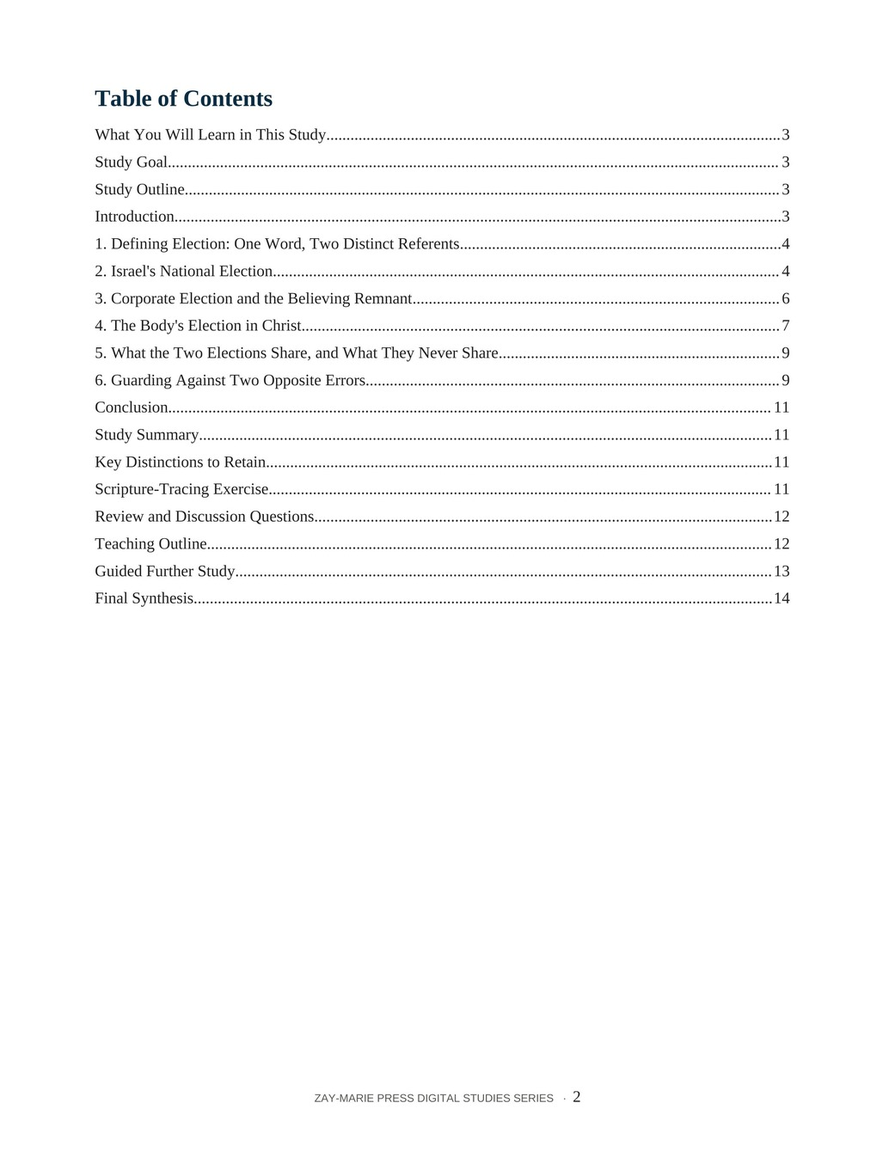
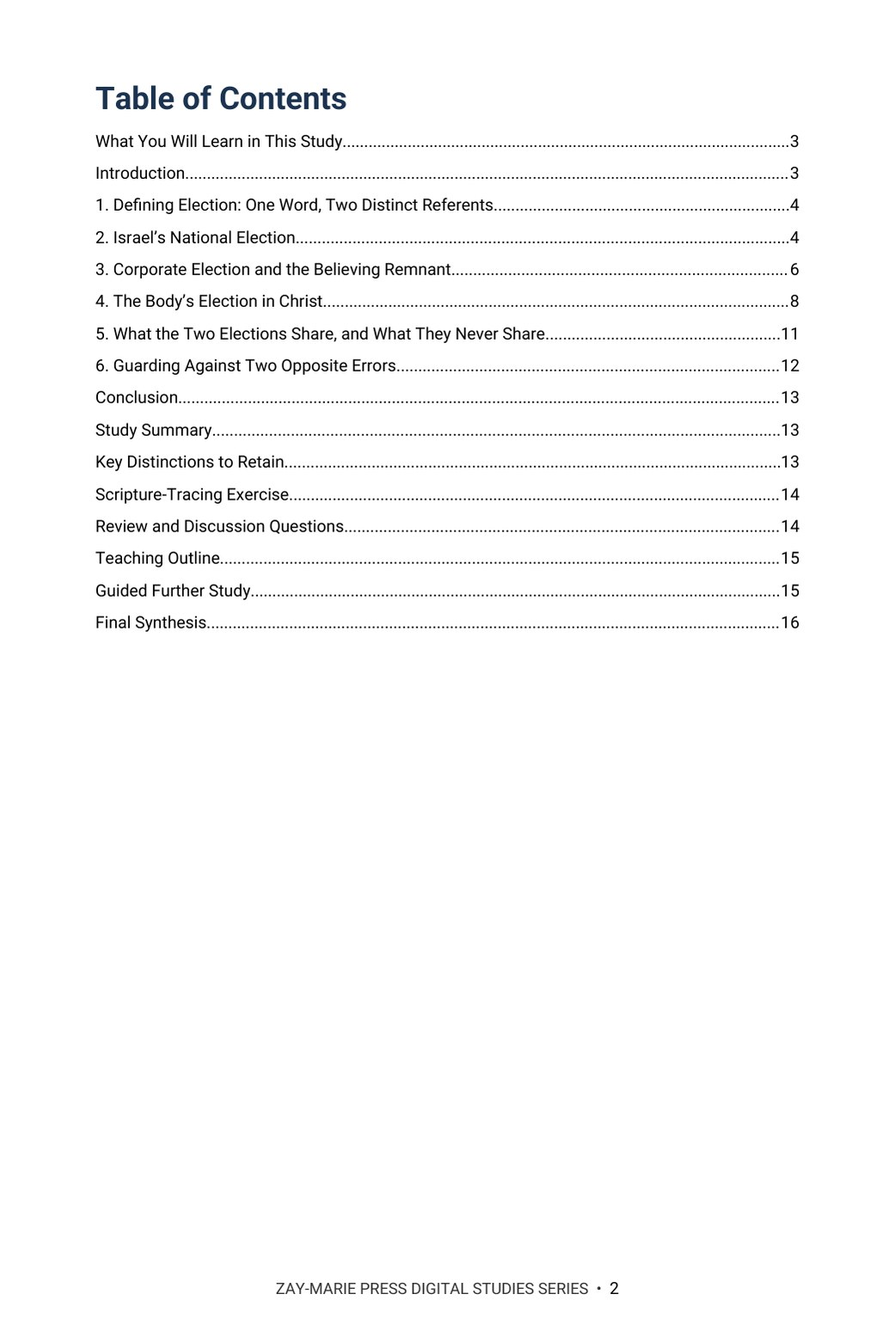
Study 50 (Election): PAM conformance, 16-page interior, section 17 previews, new preview pages; audit v1.81
Claude-Session: https://claude.ai/code/session_013kzJPyMkodVfrxEZGjk3me

Changed region(s): [[0.0922, 0.0624, 0.8915, 0.5301], [0.3074, 0.9354, 0.6455, 0.9666]]

diff --git a/study-50-election.html b/study-50-election.html
@@ -1,4 +1,4 @@
 <!doctype html>
 <html lang="en"><head><meta charset="utf-8"><meta name="viewport" content="width=device-width,initial-scale=1"><title>Election | Zay-Marie Press</title><meta name="description" content="Scripture calls Israel “chosen” and tells the Body of Christ it was “chosen . . . before the foundation of the world.” Distinguish Israel's national election from the Body's election in Christ, and avoid merging or over-extending either one. Preview Study 50 from Zay-Marie Press."><link rel="stylesheet" href="styles.css?v=20260921-4"><link rel="icon" type="image/png" href="assets/zay-marie-press-favicon.png"><style>
 .study-detail-page{background:#fff;color:#252525}.detail-hero{background:linear-gradient(135deg,#f8f5ec,#e3ece2);padding:58px 0}.detail-hero-grid{display:grid;grid-template-columns:minmax(250px,.72fr) minmax(0,1.28fr);gap:58px;align-items:center}.detail-cover{max-width:390px;margin:auto}.detail-cover img{display:block;width:100%;height:auto;box-shadow:0 14px 36px rgba(8,45,69,.18)}.detail-hero h1{font-size:clamp(2.7rem,5vw,4.7rem);line-height:1.02;margin:8px 0 10px;color:#143823}.detail-subtitle{font-family:Georgia,serif;font-size:1.35rem;font-weight:700;color:#082d45;margin:0 0 7px}.detail-kicker{font-family:Georgia,serif;font-style:italic;font-size:1.05rem;color:#4a4a44;margin:0 0 22px}.detail-copy{font-size:1.08rem;line-height:1.65;max-width:760px}.detail-buyline{display:flex;align-items:center;gap:18px;flex-wrap:wrap;margin-top:25px}.detail-price{font-family:Georgia,serif;font-size:2rem;font-weight:700;color:#143823}.detail-format,.preview-card .page-no{font-family:Arial,sans-serif;font-size:.76rem;font-weight:700;letter-spacing:.1em;text-transform:uppercase;color:#176b3a}.detail-button{display:inline-block;background:#176b3a;color:#fff;padding:13px 22px;font-family:Arial,sans-serif;font-size:.8rem;font-weight:700;letter-spacing:.07em;text-transform:uppercase}.detail-button.pending{opacity:.72;cursor:default}.detail-section{padding:66px 0}.detail-section.soft{background:#f6f7f2}.detail-section.cream{background:#faf8f2}.detail-section h2{color:#143823;margin:6px 0 18px;font-size:clamp(2rem,3.4vw,3rem)}.detail-section .lead{max-width:920px;font-size:1.1rem;line-height:1.62}.study-distinction{max-width:920px;margin-top:28px;margin-bottom:28px;padding:26px 28px;background:#fff;border:1px solid #d8d1bf;border-left:4px solid #b8871c}.study-distinction h3{margin:0 0 10px;color:#143823}.study-distinction p{margin:0 0 14px;line-height:1.62}.study-distinction a{font-family:Arial,sans-serif;font-weight:700;color:#176b3a;text-decoration:none}.study-points{display:grid;grid-template-columns:repeat(3,1fr);gap:18px;margin-top:28px;margin-bottom:28px}.study-point,.scripture-card,.preview-card,.include-item{background:#fff;border:1px solid var(--line);text-align:left}.study-point{border-top:3px solid #176b3a;padding:22px}.study-point h3{color:#143823;margin:0 0 8px;font-size:1.2rem}.study-point p,.scripture-card p,.preview-card p,.include-item p{margin:0;line-height:1.55}.scripture-grid{display:grid;grid-template-columns:repeat(4,1fr);gap:14px;margin-top:24px;margin-bottom:24px}.scripture-card{padding:22px 20px;color:#143823}.scripture-card h3{margin:0 0 9px;font-family:Georgia,serif;font-size:1rem;line-height:1.35}.scripture-card p{font-size:.94rem;color:#45453f}.excerpt{max-width:900px;margin:28px auto;border-left:4px solid #b8871c;padding:10px 0 10px 28px}.excerpt blockquote{font-family:Georgia,serif;font-size:clamp(1.45rem,2.5vw,2rem);line-height:1.45;color:#143823;margin:0 0 16px}.excerpt p{line-height:1.6;margin:0}.preview-grid{display:grid;grid-template-columns:repeat(3,1fr);gap:20px;margin-top:28px;margin-bottom:28px}.preview-card{padding:18px;min-height:210px;box-shadow:0 7px 20px rgba(20,40,25,.05)}.preview-image-link{display:block;margin:0 0 18px}.preview-image-link img{display:block;width:100%;height:auto;border:1px solid #d8d1bf;box-shadow:0 8px 22px rgba(20,40,25,.1);transition:transform .18s ease,box-shadow .18s ease}.preview-image-link:hover img{transform:translateY(-2px);box-shadow:0 11px 28px rgba(20,40,25,.16)}.preview-card h3{color:#143823;margin:8px 0 10px}.preview-instruction{margin:10px 0 0;font-family:Arial,sans-serif;font-size:.78rem;letter-spacing:.04em;color:#5b5b55}.includes-grid{display:grid;grid-template-columns:repeat(4,1fr);gap:14px;margin-top:26px}.include-item{padding:22px 20px;color:#143823}.include-item h3{margin:0 0 9px;font-family:Arial,sans-serif;font-size:.86rem;line-height:1.35;letter-spacing:.02em}.include-item p{font-size:.94rem;color:#45453f}.final-buy{background:#082d45;color:#fff;border-top:4px solid #b8871c;padding:42px 48px;display:grid;grid-template-columns:1fr auto;gap:36px;align-items:center}.final-buy .eyebrow,.final-buy h2,.final-buy .detail-price{color:#fff}.final-buy h2{margin:7px 0 6px}.final-buy p{margin:0}.final-offer{text-align:center}.back-link{display:inline-block;margin-top:18px;color:#143823;font-family:Arial,sans-serif;font-weight:700;text-decoration:none}.preview-lightbox{position:fixed;inset:0;z-index:10000;display:none;align-items:flex-start;justify-content:center;background:rgba(8,22,16,.88);padding:24px;overflow:auto}.preview-lightbox.open{display:flex}.preview-lightbox img{display:block;width:auto;height:auto;max-width:none;box-shadow:0 18px 55px rgba(0,0,0,.4);background:#fff}.preview-lightbox-close{position:fixed;top:18px;right:24px;z-index:10001;width:46px;height:46px;border:1px solid rgba(255,255,255,.65);border-radius:50%;background:rgba(0,0,0,.55);color:#fff;font:32px/1 Arial,sans-serif;cursor:pointer}@media(max-width:900px){.detail-hero-grid{grid-template-columns:1fr;gap:34px}.detail-cover{max-width:330px}.study-points{grid-template-columns:repeat(2,1fr)}.scripture-grid,.includes-grid{grid-template-columns:repeat(2,1fr)}.preview-grid,.final-buy{grid-template-columns:1fr}.final-offer{text-align:left}}@media(max-width:560px){.detail-hero{padding:42px 0}.detail-section{padding:50px 0}.study-points,.scripture-grid,.includes-grid{grid-template-columns:1fr}.final-buy{padding:32px 24px}.detail-buyline{align-items:flex-start;flex-direction:column;gap:8px}.preview-lightbox{padding:58px 10px 24px}.preview-lightbox img{width:100%;max-width:100%;height:auto}} .detail-hero h1{font-size:clamp(2.1rem,4.2vw,3.7rem);line-height:1.08}</style></head><body class="study-detail-page">
-<header class="site-header"><div class="wrap nav"><a class="logo" href="index.html" aria-label="Zay-Marie Press home"><img src="assets/zay-marie-press-logo-hq.png" alt="Zay-Marie Press" width="420" height="238"></a><button class="menu-toggle" type="button" aria-expanded="false" aria-controls="primary-nav">MENU</button><nav aria-label="Primary navigation" class="primary-nav" id="primary-nav"><a href="index.html">HOME</a><a href="books.html">BOOKS</a><a href="series.html">SERIES</a><a class="active" aria-current="page" href="digital-studies.html">DIGITAL STUDIES</a><a href="biblical-hermeneutics-course.html">COURSE</a><a href="about.html">ABOUT</a><a href="resources.html">RESOURCES</a><a href="contact.html">CONTACT</a></nav></div></header><main><section class="detail-hero"><div class="wrap detail-hero-grid"><div class="detail-cover"><picture><source srcset="assets/study-50-cover.webp" type="image/webp"><img src="assets/study-50-cover.jpg" alt="Election — Study 50 cover"></picture></div><div><div class="eyebrow">STUDY 50 · DIGITAL STUDY</div><h1>Election</h1><p class="detail-subtitle">Israel's National Election and the Body's Election in Christ</p><p class="detail-kicker">A Biblical Examination of Two Distinct Elections Under the Prophecy and Mystery Programs</p><p class="detail-copy">Scripture calls Israel "chosen" (Deuteronomy 7:6), and it tells the Body of Christ that God "hath chosen us in him before the foundation of the world" (Ephesians 1:4). The same English word — and largely the same underlying vocabulary of choosing — describes two different companies, in two different settings, on two different grounds, unto two different destinies. Left unexamined, that single shared word invites two opposite mistakes.</p><p class="detail-copy">This study traces Israel's national election from Deuteronomy 7 through Romans 9–11's corporate argument and Jeremiah 31's guarantee of the nation's future, and the Body's election in Christ from Ephesians 1's "before the foundation of the world" through Romans 8's unbroken chain of divine action. It tests the passage most likely to be misread alongside them — 1 Peter 1:1–2 — and names the two opposite errors a careful reader must avoid on either side.</p><div class="detail-buyline"><span class="detail-price">$5.99</span><span class="detail-format">Digital PDF · 14 Pages</span><span class="detail-button pending" aria-disabled="true">Checkout Coming Soon</span></div></div></div></section><section class="detail-section"><div class="wrap"><div class="eyebrow">ABOUT THIS STUDY</div><h2>Two Distinct Elections, Read on Their Own Terms</h2><p class="lead">Scripture applies its vocabulary of choosing to a nation (Deuteronomy 7:6–8), to a believing remnant within that nation (Romans 11:5), and to the Body of Christ (Ephesians 1:4). The word itself only ever tells the reader that a choice has been made — it does not say who was chosen, on what basis, at what point, or unto what destiny. Those four questions must be answered from each passage's own setting. Asked consistently, they keep Israel's national election and the Body's election in Christ distinct without denying that both are, in the fullest sense, God's own sovereign elections.</p><p class="lead">This is not a general study of Israel's remnant, which Study 9 traces in its own right, nor of the judicial suspension that presently governs Israel's corporate unbelief, which Study 21 examines fully, nor of the broad Israel–Body distinction itself, which Study 4 establishes across every point of contrast. Its task is narrower: to ask, of every election passage in view, who is the object of the choice, on what basis, at what point, and unto what end — and to test that method against the one passage most likely to blur the two elections together, 1 Peter 1:1–2.</p><div class="study-distinction"><h3>How These Studies Relate</h3><p>Study 50 traces the two elections Scripture names — Israel's national election and the Body's election in Christ — and the discipline that keeps a shared word from becoming a shared doctrine.</p><p><a href="study-09-the-remnant.html">Study 9 — The Remnant</a> Compare the corporate, national election traced here with the narrower "election of grace" this study locates within it — an individual outworking, not a separate election.</p><p><a href="study-21-israels-judicial-blinding.html">Study 21 — Israel's Judicial Blinding</a> See the national judicial suspension examined in full — the present, corporate condition this study calls on to show why Israel's unbelief never revokes her ongoing election.</p><p><a href="study-04-israel-and-the-body-of-christ.html">Study 4 — Israel and the Body of Christ</a> Read the broad Israel–Body distinction in origin, covenant, and destiny that this study's narrower question about election depends on throughout.</p><p class="connection-guide-link"><a href="study-connections.html#study-50">Explore the full connection guide for Study 50 →</a></p></div><div class="eyebrow">WHAT YOU'LL STUDY</div><h2>Trace the Object, the Basis, and the Destiny of Each Election</h2><div class="study-points"><div class="study-point"><h3>One Word, Two Referents</h3><p>See why "chosen" alone never settles who is in view — the object, basis, timing, and destiny must come from each passage's own setting.</p></div><div class="study-point"><h3>Israel's National Election</h3><p>Trace God's unconditional choice of Israel in Deuteronomy 7, Romans 9's Isaac/Jacob argument, and Romans 11:28–29's "beloved for the fathers' sakes."</p></div><div class="study-point"><h3>Corporate Election and the Believing Remnant</h3><p>See how a nation can be elected as a whole while Romans 11:5's individual "election of grace" still operates within it.</p></div><div class="study-point"><h3>The Body's Election in Christ</h3><p>Read Ephesians 1's "chosen . . . before the foundation of the world" and test its ground against Israel's own national election.</p></div><div class="study-point"><h3>What the Two Elections Never Share</h3><p>Compare object, basis, covenant status, and destiny side by side without collapsing one election into the other.</p></div><div class="study-point"><h3>Guarding Against Two Opposite Errors</h3><p>Avoid merging Israel and the Body into one election, and avoid stretching Israel's election to answer a question about individual salvation it was not given to answer.</p></div></div><div class="eyebrow">KEY SCRIPTURES</div><h2>Examine the Passages for Yourself</h2><div class="scripture-grid"><div class="scripture-card"><h3>Deuteronomy 7:6–8</h3><p>Israel chosen not for size or merit, but for God's own love and His oath to the fathers.</p></div><div class="scripture-card"><h3>Romans 9:6–13</h3><p>Isaac and Jacob chosen before either was born — a corporate, historical argument, not a proof text for individual salvation.</p></div><div class="scripture-card"><h3>Romans 11:28–29</h3><p>Beloved for the fathers' sakes — the gifts and calling of God are without repentance.</p></div><div class="scripture-card"><h3>Ephesians 1:3–6</h3><p>Chosen in Him before the foundation of the world — no genealogical or national referent at all.</p></div><div class="scripture-card"><h3>Ephesians 1:11–12</h3><p>Predestinated according to His purpose, obtained by those who first trusted in Christ.</p></div><div class="scripture-card"><h3>Romans 8:28–30</h3><p>The unbroken chain from foreknowledge to glory — every verb belongs to God.</p></div><div class="scripture-card"><h3>2 Thessalonians 2:13–14</h3><p>Chosen to salvation through belief of the truth, called by the gospel Paul preaches.</p></div><div class="scripture-card"><h3>1 Peter 1:1–2</h3><p>"Elect according to foreknowledge" — addressed to Israel's own dispersion, not a third statement of the Body's election.</p></div></div><div class="eyebrow">FROM THE STUDY</div><h2>The Word Is Not the Test</h2><div class="excerpt"><blockquote>"According as he hath chosen us in him before the foundation of the world, that we should be holy and without blame before him in love" (Ephesians 1:4).</blockquote><p>Paul locates this election "in him," before time began — not in a family, not in a nation, not in a covenant sworn within history. Israel's own election, sworn to Abraham's line, is no less real for being different; it is simply not this one. The single word "chosen" is not the test. Where, when, and unto what a choice was made — asked of each passage on its own terms — is.</p></div><div class="eyebrow">A LOOK INSIDE</div><h2>Preview the Study Before You Purchase</h2><p class="preview-instruction">Click any page to enlarge it for reading.</p><div class="preview-grid"><div class="preview-card"><a class="preview-image-link" data-preview-lightbox href="assets/study-50-page-2.jpg"><img src="assets/study-50-page-2.jpg" alt="Study 50 table of contents"></a><div class="page-no">Page 2</div><h3>Table of Contents</h3><p>See the study's full structure and scope at a glance.</p></div><div class="preview-card"><a class="preview-image-link" data-preview-lightbox href="assets/study-50-page-3.jpg"><img src="assets/study-50-page-3.jpg" alt="Study 50 page 3: what you will learn, study goal, and study outline"></a><div class="page-no">Page 3</div><h3>What You Will Learn</h3><p>See the study's goal, outline, and the question it sets out to answer.</p></div><div class="preview-card"><a class="preview-image-link" data-preview-lightbox href="assets/study-50-page-4.jpg"><img src="assets/study-50-page-4.jpg" alt="Study 50 page 4: defining election and Israel's national election"></a><div class="page-no">Page 4</div><h3>Defining Election</h3><p>See how the study opens its argument from the Hebrew and Greek vocabulary of choosing itself.</p></div></div><div class="eyebrow">WHAT'S INCLUDED</div><h2>A Focused Study Built for<br>Understanding and Teaching</h2><div class="includes-grid"><div class="include-item"><h3>14-Page In-Depth Biblical Study</h3><p>A careful study of Israel's national election and the Body's election in Christ, grounded in Deuteronomy, Romans, Ephesians, and 1 Peter.</p></div><div class="include-item"><h3>6 Core Teaching Sections</h3><p>Progress from the shared vocabulary of choosing through both elections to the two opposite errors a careful reader must avoid.</p></div><div class="include-item"><h3>Key Distinctions to Retain</h3><p>Keep the object, basis, covenant status, and destiny of each election clear.</p></div><div class="include-item"><h3>Review and Discussion Questions</h3><p>Test the study's distinctions concerning basis, timing, and destiny.</p></div><div class="include-item"><h3>Teaching Outline</h3><p>A structured framework for teaching both elections with precision.</p></div><div class="include-item"><h3>Guided Further Study</h3><p>Return to Israel's election, the Body's election, and the discipline of audience, each traced further with directed questions.</p></div><div class="include-item"><h3>Scripture-Tracing Exercise</h3><p>Trace the study's key passages across the Law, the Prophets, the Gospels, and Paul's letters in their own context.</p></div><div class="include-item"><h3>Final Synthesis Exercise</h3><p>Bring the evidence together in one coherent, Scripture-based explanation.</p></div></div><div class="final-buy"><div><div class="eyebrow">STUDY 50 · DIGITAL STUDY</div><h2>Election</h2><p>14-page digital PDF · For personal use</p></div><div class="final-offer"><div class="detail-price">$5.99</div><span class="detail-button pending" aria-disabled="true">Checkout Coming Soon</span></div></div><a class="back-link" href="digital-studies.html">← Back to All Digital Studies</a></div></section><section class="study-method-course-bridge"><div class="wrap"><div class="study-method-course-panel"><div><div class="eyebrow">BUILD THE INTERPRETIVE METHOD</div><h2>Want More Than a Focused Study?</h2><p>Digital Studies examine particular biblical subjects and difficult passages. The 40-lesson Biblical Hermeneutics course teaches a complete, repeatable method for establishing meaning in context, determining proper assignment, and making responsible application.</p></div><a class="btn btn-primary" href="biblical-hermeneutics-course.html">BIBLICAL HERMENEUTICS COURSE</a></div></div></section></main><div class="preview-lightbox" id="preview-lightbox" role="dialog" aria-modal="true" aria-label="Expanded study preview"><button class="preview-lightbox-close" type="button" aria-label="Close preview">×</button><img id="preview-lightbox-image" alt=""></div><footer class="site-footer"><div class="wrap footer-grid"><div class="footer-about"><h3>Zay-Marie Press</h3><p class="footer-tagline"><em>Where the Bible Means What It Says.</em></p><p>Zay-Marie Press is a Christian theological publisher dedicated to producing doctrinally precise, carefully structured biblical resources that equip pastors, teachers, and serious students with clarity, depth, and Scripture-anchored truth.</p><p><a href="https://zaymariepress.com">zaymariepress.com</a><br><a href="mailto:info@zaymariepress.com">info@zaymariepress.com</a></p></div><div class="footer-column"><h3>Explore</h3><div class="footer-links-stacked"><a href="books.html">Books</a><br><a href="series.html">Series</a><br><a href="biblical-hermeneutics-course.html">Course</a><br><a href="digital-studies.html">Digital Studies</a><br><a href="resources.html">Resources</a><br><a href="bible-book-summaries.html">Bible Book Summaries</a><br><a href="doctrinal-packets.html">Doctrinal Packets</a><br><a href="historical-drift.html">Historical Drift</a><br><a href="about.html">About</a><br><a href="contact.html">Contact</a></div></div><div class="footer-column"><h3>Reader Support</h3><div class="footer-links-stacked"><a href="reader-support.html#faq">FAQ</a><br><a href="reader-support.html#shipping-returns">Shipping &amp; Returns</a><br><a href="reader-support.html#digital-downloads">Digital Downloads</a><br><a href="reader-support.html#contact-support">Contact Support</a></div></div><div class="footer-column"><h3>Acts Overlap</h3><p><strong>Acts Overlap Theology Series</strong></p><p><em>Two Distinct Streams. One Overlap.</em></p><p><a href="series.html">Series Overview</a></p></div></div><div class="wrap footer-bottom">© 2026 Zay-Marie Press. All rights reserved.</div></footer><script src="site.js"></script><script>const lightbox=document.getElementById('preview-lightbox'),lightboxImage=document.getElementById('preview-lightbox-image'),closeLightbox=()=>{lightbox.classList.remove('open');lightboxImage.src='';};document.querySelectorAll('[data-preview-lightbox]').forEach(link=>link.addEventListener('click',event=>{event.preventDefault();lightboxImage.src=link.href;lightboxImage.alt=link.querySelector('img').alt;lightbox.classList.add('open');}));document.querySelector('.preview-lightbox-close').addEventListener('click',closeLightbox);lightbox.addEventListener('click',event=>{if(event.target===lightbox)closeLightbox();});document.addEventListener('keydown',event=>{if(event.key==='Escape')closeLightbox();});</script></body></html>
+<header class="site-header"><div class="wrap nav"><a class="logo" href="index.html" aria-label="Zay-Marie Press home"><img src="assets/zay-marie-press-logo-hq.png" alt="Zay-Marie Press" width="420" height="238"></a><button class="menu-toggle" type="button" aria-expanded="false" aria-controls="primary-nav">MENU</button><nav aria-label="Primary navigation" class="primary-nav" id="primary-nav"><a href="index.html">HOME</a><a href="books.html">BOOKS</a><a href="series.html">SERIES</a><a class="active" aria-current="page" href="digital-studies.html">DIGITAL STUDIES</a><a href="biblical-hermeneutics-course.html">COURSE</a><a href="about.html">ABOUT</a><a href="resources.html">RESOURCES</a><a href="contact.html">CONTACT</a></nav></div></header><main><section class="detail-hero"><div class="wrap detail-hero-grid"><div class="detail-cover"><picture><source srcset="assets/study-50-cover.webp" type="image/webp"><img src="assets/study-50-cover.jpg" alt="Election — Study 50 cover"></picture></div><div><div class="eyebrow">STUDY 50 · DIGITAL STUDY</div><h1>Election</h1><p class="detail-subtitle">Israel's National Election and the Body's Election in Christ</p><p class="detail-kicker">A Biblical Examination of Two Distinct Elections Under the Prophecy and Mystery Programs</p><p class="detail-copy">Scripture calls Israel "chosen" (Deuteronomy 7:6), and it tells the Body of Christ that God "hath chosen us in him before the foundation of the world" (Ephesians 1:4). The same English word — and largely the same underlying vocabulary of choosing — describes two different companies, in two different settings, on two different grounds, unto two different destinies. Left unexamined, that single shared word invites two opposite mistakes.</p><p class="detail-copy">This study traces Israel's national election from Deuteronomy 7 through Romans 9–11's corporate argument and Jeremiah 31's guarantee of the nation's future, and the Body's election in Christ from Ephesians 1's "before the foundation of the world" through Romans 8's unbroken chain of divine action. It tests the passage most likely to be misread alongside them — 1 Peter 1:1–2 — and names the two opposite errors a careful reader must avoid on either side.</p><div class="detail-buyline"><span class="detail-price">$5.99</span><span class="detail-format">Digital PDF · 16 Pages</span><span class="detail-button pending" aria-disabled="true">Checkout Coming Soon</span></div></div></div></section><section class="detail-section"><div class="wrap"><div class="eyebrow">ABOUT THIS STUDY</div><h2>Two Distinct Elections, Read on Their Own Terms</h2><p class="lead">Scripture applies its vocabulary of choosing to a nation (Deuteronomy 7:6–8), to a believing remnant within that nation (Romans 11:5), and to the Body of Christ (Ephesians 1:4). The word itself only ever tells the reader that a choice has been made — it does not say who was chosen, on what basis, at what point, or unto what destiny. Those four questions must be answered from each passage's own setting. Asked consistently, they keep Israel's national election and the Body's election in Christ distinct without denying that both are, in the fullest sense, God's own sovereign elections.</p><p class="lead">This is not a general study of Israel's remnant, which Study 9 traces in its own right, nor of the judicial suspension that presently governs Israel's corporate unbelief, which Study 21 examines fully, nor of the broad Israel–Body distinction itself, which Study 4 establishes across every point of contrast. Its task is narrower: to ask, of every election passage in view, who is the object of the choice, on what basis, at what point, and unto what end — and to test that method against the one passage most likely to blur the two elections together, 1 Peter 1:1–2.</p><div class="study-distinction"><h3>How These Studies Relate</h3><p>Study 50 traces the two elections Scripture names — Israel's national election and the Body's election in Christ — and the discipline that keeps a shared word from becoming a shared doctrine.</p><p><a href="study-09-the-remnant.html">Study 9 — The Remnant</a> Compare the corporate, national election traced here with the narrower "election of grace" this study locates within it — an individual outworking, not a separate election.</p><p><a href="study-21-israels-judicial-blinding.html">Study 21 — Israel's Judicial Blinding</a> See the national judicial suspension examined in full — the present, corporate condition this study calls on to show why Israel's unbelief never revokes her ongoing election.</p><p><a href="study-04-israel-and-the-body-of-christ.html">Study 4 — Israel and the Body of Christ</a> Read the broad Israel–Body distinction in origin, covenant, and destiny that this study's narrower question about election depends on throughout.</p><p class="connection-guide-link"><a href="study-connections.html#study-50">Explore the full connection guide for Study 50 →</a></p></div><div class="eyebrow">WHAT YOU'LL STUDY</div><h2>Trace the Object, the Basis, and the Destiny of Each Election</h2><div class="study-points"><div class="study-point"><h3>The Four Questions</h3><p>Learn the four questions — object, basis, point of choice and destiny — this study puts to every election passage, and test why a shared word does not by itself settle which choice a passage describes.</p></div><div class="study-point"><h3>Reading Deuteronomy 7 and Romans 9–11</h3><p>Trace the reason Deuteronomy 7:6–8 gives for Israel's choice, how Romans 9:6–13 uses Isaac and Jacob, and what Paul says about gifts and calling in Romans 11:28–29.</p></div><div class="study-point"><h3>The “Election of Grace”</h3><p>Follow the phrase in Romans 11:1–7, noting what verse 6 says about works and grace, and test how it relates to the passages on the nation.</p></div><div class="study-point"><h3>Ephesians 1 on Its Own Terms</h3><p>Read Ephesians 1:3–6 and 1:11–12 for where, when and in whom the choice is placed, and note which words the text uses of descent, covenant and inheritance.</p></div><div class="study-point"><h3>Comparing the Passages</h3><p>Set the passages side by side on object, basis, point of choice and destiny, marking where the text states the same ground (Deuteronomy 7:7; Ephesians 2:8–9) and where it does not.</p></div><div class="study-point"><h3>The Discipline of Audience</h3><p>Read 1 Peter 1:1–2 from its own address, and weigh what Romans 9–11 was written to answer before pressing it into a wider debate.</p></div></div><div class="eyebrow">KEY SCRIPTURES</div><h2>Examine the Passages for Yourself</h2><div class="scripture-grid"><div class="scripture-card"><h3>Deuteronomy 7:6–8</h3><p>Israel chosen not for size or merit, but for God's own love and His oath to the fathers.</p></div><div class="scripture-card"><h3>Romans 9:6–13</h3><p>Isaac and Jacob, and the question Paul is answering in the chapter's opening verses.</p></div><div class="scripture-card"><h3>Romans 11:28–29</h3><p>Beloved for the fathers' sakes — the gifts and calling of God are without repentance.</p></div><div class="scripture-card"><h3>Ephesians 1:3–6</h3><p>Chosen in Him before the foundation of the world — read who is “us,” and where and when the choice is placed.</p></div><div class="scripture-card"><h3>Ephesians 1:11–12</h3><p>Predestinated according to His purpose, obtained by those who first trusted in Christ.</p></div><div class="scripture-card"><h3>Romans 8:28–30</h3><p>The unbroken chain from foreknowledge to glory — every verb belongs to God.</p></div><div class="scripture-card"><h3>2 Thessalonians 2:13–14</h3><p>Chosen to salvation through belief of the truth, called by the gospel Paul preaches.</p></div><div class="scripture-card"><h3>1 Peter 1:1–2</h3><p>"Elect according to foreknowledge" — read the letter's own address, “strangers scattered,” before deciding what the word names.</p></div></div><div class="eyebrow">FROM THE STUDY</div><h2>The Word Is Not the Test</h2><div class="excerpt"><blockquote>"According as he hath chosen us in him before the foundation of the world, that we should be holy and without blame before him in love" (Ephesians 1:4).</blockquote><p>Paul locates this election "in him," before time began — not in a family, not in a nation, not in a covenant sworn within history. Israel's own election, sworn to Abraham's line, is no less real for being different; it is simply not this one. The single word "chosen" is not the test. Where, when, and unto what a choice was made — asked of each passage on its own terms — is.</p></div><div class="eyebrow">A LOOK INSIDE</div><h2>Preview the Study Before You Purchase</h2><p class="preview-instruction">Click any page to enlarge it for reading.</p><div class="preview-grid"><div class="preview-card"><a class="preview-image-link" data-preview-lightbox href="assets/study-50-page-2.jpg"><img src="assets/study-50-page-2.jpg" alt="Study 50 table of contents"></a><div class="page-no">Page 2</div><h3>Table of Contents</h3><p>See the study's full structure and scope at a glance.</p></div><div class="preview-card"><a class="preview-image-link" data-preview-lightbox href="assets/study-50-page-3.jpg"><img src="assets/study-50-page-3.jpg" alt="Study 50 page 3: what you will learn, study goal, and study outline"></a><div class="page-no">Page 3</div><h3>What You Will Learn</h3><p>See the study's goal, outline, and the question it sets out to answer.</p></div><div class="preview-card"><a class="preview-image-link" data-preview-lightbox href="assets/study-50-page-5.jpg"><img src="assets/study-50-page-5.jpg" alt="Study 50 page 5: Deuteronomy 7 and Romans 9 in KJV wording, with commentary"></a><div class="page-no">Page 5</div><h3>Deuteronomy 7 and Romans 9</h3><p>Read the KJV text of Deuteronomy 7:6–8 beside the study's commentary on Romans 9:6–13.</p></div></div><div class="eyebrow">WHAT'S INCLUDED</div><h2>A Focused Study Built for<br>Understanding and Teaching</h2><div class="includes-grid"><div class="include-item"><h3>16-Page In-Depth Biblical Study</h3><p>A careful study of Israel's national election and the Body's election in Christ, grounded in Deuteronomy, Romans, Ephesians, and 1 Peter.</p></div><div class="include-item"><h3>6 Core Teaching Sections</h3><p>Progress from the shared vocabulary of choosing through both elections to the two opposite errors a careful reader must avoid.</p></div><div class="include-item"><h3>Key Distinctions to Retain</h3><p>Keep the object, basis, covenant status, and destiny of each election clear.</p></div><div class="include-item"><h3>Review and Discussion Questions</h3><p>Test the study's distinctions concerning basis, timing, and destiny.</p></div><div class="include-item"><h3>Teaching Outline</h3><p>A structured framework for teaching both elections with precision.</p></div><div class="include-item"><h3>Guided Further Study</h3><p>Return to Israel's election, the Body's election, and the discipline of audience, each traced further with directed questions.</p></div><div class="include-item"><h3>Scripture-Tracing Exercise</h3><p>Trace the study's key passages across the Law, the Prophets, the Gospels, and Paul's letters in their own context.</p></div><div class="include-item"><h3>Final Synthesis Exercise</h3><p>Bring the evidence together in one coherent, Scripture-based explanation.</p></div></div><div class="final-buy"><div><div class="eyebrow">STUDY 50 · DIGITAL STUDY</div><h2>Election</h2><p>16-page digital PDF · For personal use</p></div><div class="final-offer"><div class="detail-price">$5.99</div><span class="detail-button pending" aria-disabled="true">Checkout Coming Soon</span></div></div><a class="back-link" href="digital-studies.html">← Back to All Digital Studies</a></div></section><section class="study-method-course-bridge"><div class="wrap"><div class="study-method-course-panel"><div><div class="eyebrow">BUILD THE INTERPRETIVE METHOD</div><h2>Want More Than a Focused Study?</h2><p>Digital Studies examine particular biblical subjects and difficult passages. The 40-lesson Biblical Hermeneutics course teaches a complete, repeatable method for establishing meaning in context, determining proper assignment, and making responsible application.</p></div><a class="btn btn-primary" href="biblical-hermeneutics-course.html">BIBLICAL HERMENEUTICS COURSE</a></div></div></section></main><div class="preview-lightbox" id="preview-lightbox" role="dialog" aria-modal="true" aria-label="Expanded study preview"><button class="preview-lightbox-close" type="button" aria-label="Close preview">×</button><img id="preview-lightbox-image" alt=""></div><footer class="site-footer"><div class="wrap footer-grid"><div class="footer-about"><h3>Zay-Marie Press</h3><p class="footer-tagline"><em>Where the Bible Means What It Says.</em></p><p>Zay-Marie Press is a Christian theological publisher dedicated to producing doctrinally precise, carefully structured biblical resources that equip pastors, teachers, and serious students with clarity, depth, and Scripture-anchored truth.</p><p><a href="https://zaymariepress.com">zaymariepress.com</a><br><a href="mailto:info@zaymariepress.com">info@zaymariepress.com</a></p></div><div class="footer-column"><h3>Explore</h3><div class="footer-links-stacked"><a href="books.html">Books</a><br><a href="series.html">Series</a><br><a href="biblical-hermeneutics-course.html">Course</a><br><a href="digital-studies.html">Digital Studies</a><br><a href="resources.html">Resources</a><br><a href="bible-book-summaries.html">Bible Book Summaries</a><br><a href="doctrinal-packets.html">Doctrinal Packets</a><br><a href="historical-drift.html">Historical Drift</a><br><a href="about.html">About</a><br><a href="contact.html">Contact</a></div></div><div class="footer-column"><h3>Reader Support</h3><div class="footer-links-stacked"><a href="reader-support.html#faq">FAQ</a><br><a href="reader-support.html#shipping-returns">Shipping &amp; Returns</a><br><a href="reader-support.html#digital-downloads">Digital Downloads</a><br><a href="reader-support.html#contact-support">Contact Support</a></div></div><div class="footer-column"><h3>Acts Overlap</h3><p><strong>Acts Overlap Theology Series</strong></p><p><em>Two Distinct Streams. One Overlap.</em></p><p><a href="series.html">Series Overview</a></p></div></div><div class="wrap footer-bottom">© 2026 Zay-Marie Press. All rights reserved.</div></footer><script src="site.js"></script><script>const lightbox=document.getElementById('preview-lightbox'),lightboxImage=document.getElementById('preview-lightbox-image'),closeLightbox=()=>{lightbox.classList.remove('open');lightboxImage.src='';};document.querySelectorAll('[data-preview-lightbox]').forEach(link=>link.addEventListener('click',event=>{event.preventDefault();lightboxImage.src=link.href;lightboxImage.alt=link.querySelector('img').alt;lightbox.classList.add('open');}));document.querySelector('.preview-lightbox-close').addEventListener('click',closeLightbox);lightbox.addEventListener('click',event=>{if(event.target===lightbox)closeLightbox();});document.addEventListener('keydown',event=>{if(event.key==='Escape')closeLightbox();});</script></body></html>

diff --git a/site.js b/site.js
@@ -62,7 +62,7 @@ const resourceModal=document.querySelector('#resource-modal'), resourceModalTitl
 if(resourceModal&&resourceModalTriggers.length){const closeResourceModal=()=>{resourceModal.hidden=true;document.body.classList.remove('resource-modal-open');lastResourceTrigger?.focus();};resourceModalTriggers.forEach(trigger=>trigger.addEventListener('click',()=>{lastResourceTrigger=trigger;if(resourceModalTitle)resourceModalTitle.textContent=trigger.dataset.title||'Resource';if(resourceModalDescription)resourceModalDescription.textContent=trigger.dataset.description||'';if(resourceModalLink){resourceModalLink.href=trigger.dataset.href||'#';resourceModalLink.textContent=trigger.dataset.linkText||'OPEN RESOURCE';}resourceModal.hidden=false;document.body.classList.add('resource-modal-open');resourceModalClose?.focus();}));resourceModalClose?.addEventListener('click',closeResourceModal);resourceModal.addEventListener('click',e=>{if(e.target===resourceModal)closeResourceModal();});document.addEventListener('keydown',e=>{if(e.key==='Escape'&&!resourceModal.hidden)closeResourceModal();});}
 
 /* Display the verified final-PDF page count at the primary purchase decision point. */
-const digitalStudyPageCounts={1:14,2:14,3:18,4:18,5:16,6:16,7:16,8:16,9:16,10:23,11:15,12:14,13:18,14:15,15:16,16:16,17:18,18:18,19:16,20:16,21:16,22:16,23:16,24:16,25:17,26:18,27:16,28:16,29:16,30:17,31:19,32:16,33:16,34:16,35:16,36:16,37:16,38:16,39:16,40:16,41:16,42:16,43:16,44:16,45:16,46:16,47:16,48:16,49:16,50:14,51:15,52:15,53:15,54:15,55:16,56:16,61:16,62:16,63:16,64:16,65:16,66:16,67:16,68:16,69:16,70:16,71:16};
+const digitalStudyPageCounts={1:14,2:14,3:18,4:18,5:16,6:16,7:16,8:16,9:16,10:23,11:15,12:14,13:18,14:15,15:16,16:16,17:18,18:18,19:16,20:16,21:16,22:16,23:16,24:16,25:17,26:18,27:16,28:16,29:16,30:17,31:19,32:16,33:16,34:16,35:16,36:16,37:16,38:16,39:16,40:16,41:16,42:16,43:16,44:16,45:16,46:16,47:16,48:16,49:16,50:16,51:15,52:15,53:15,54:15,55:16,56:16,61:16,62:16,63:16,64:16,65:16,66:16,67:16,68:16,69:16,70:16,71:16};
 const digitalStudyMatch=window.location.pathname.match(/\/study-(\d+)-/i);
 const digitalStudyFormat=document.querySelector('.detail-hero .detail-format');
 if(digitalStudyMatch&&digitalStudyFormat){const studyNumber=Number(digitalStudyMatch[1]),pageCount=digitalStudyPageCounts[studyNumber];if(pageCount)digitalStudyFormat.textContent=`Digital PDF · ${pageCount} Pages`;}

diff --git a/controlling-documents/Digital_Studies_PAM_Audit_v1.81.md b/controlling-documents/Digital_Studies_PAM_Audit_v1.81.md
@@ -1,4 +1,4 @@
-# Digital Studies vs. PAM Audit — v1.80
+# Digital Studies vs. PAM Audit — v1.81
 
 Working tracker and instructions for checking the Digital Studies against the Program Assignment Manual (PAM), §XIX of `Framework_Control_Document_Acts_Overlap.docx`, including its "Section 4 — Publisher Rulings". Same `_vX.Y` convention as the other controlling documents: update the status table and changelog as the audit proceeds, bump the version, and rename the file to match.
 
@@ -310,3 +310,4 @@ Study 15 PDF not yet supplied. Typography: none of Studies 2, 3, 6, 8 is in EB G
 - v1.78 (2026-10-01): Study 47 (Giving Under Grace) read in full against the PAM and Framework from the publisher's DOCX (REVISED): no conflicts; the PAM's 2 Cor 8–9 assignment (Mystery Program, Body practice) is followed. Rules 7–12 wording applied, and the publisher approved all proposed wording exactly. Rule 7: the standing overlap sentence is in the Introduction (¶4, beside the Romans 15:25–27 anchor), the Acts Overlap Distinction callout, the Study Summary and the Final Synthesis. Rule 8: Philippians anchoring sentence at first treatment. Rule 12 (passage-level form): Romans 15:25–27 and 1 Corinthians 16:1–2. Rule 9: Acts 4:32–37 labelled "Kingdom period (Acts 1–8, Prophecy Program)" and Acts 11:27–30 labelled "Overlap". Correction: "named brethren" became "the brethren" (Review Q4, the website About paragraph, point and Key Scriptures card, and the connections entry for Study 48). §17: the Study Goal and What You Will Learn bullets 2, 3, 4, 8 and 9 were rewritten as process statements, as were the website points The Macedonian Pattern, A Willing Mind and Its Measure, Equality and the Manna, Administered With Integrity and Contentment and Israel's Tithe. Layout: six callouts reduced to five boxed (the closing Key Text became a run-in), teaching sections renumbered 1–13 with cross-references remapped, ten KJV tables, unified imprint, 16 pages. Website preview set changed to pages 2, 3 and 9 (page 13 removed); "17 Core Teaching Sections" corrected to 13. The cover is unchanged from the website (BODY OF CHRIST), set into the interior at 1600×2400 from the 1024×1536 file.
 - v1.79 (2026-10-01): Study 48 (The Christian Household) read in full against the PAM and Framework from the publisher's DOCX (REVISED): no conflicts. Ephesians, Colossians, 1 Timothy, Philemon and Titus are read as Body instruction under the Framework's "Romans–Philemon governs the Body," so no anchoring sentence is used for them; 1 Corinthians 11:3 is Body practice. Three points ruled by the publisher: (1) Galatians 3:28 takes the passage-level Rule 12 sentence (Study 42 form) at first treatment; (2) 1 Peter 3:1–7 in Guided Further Study carries the Rule 8 anchoring sentence, the audience wording "Jewish believers scattered abroad (1:1)" and the Rule 7 overlap sentence; (3) the "no Acts Overlap distinction is required" claim is kept, with "without borrowing from or contrasting with a Kingdom-era household law" changed to "without importing a Kingdom-era household instruction; 1 Peter 3:1–7 appears only in Guided Further Study as a comparison." Corrections: the 1 Corinthians 11:3 quotation in the Key Distinction callout ("Christ is the head of the woman is the man" became "the head of the woman is the man"); the Greek note (5:21 is a participle dependent on 5:18's "be filled", not a shared verb); "named brethren" became "the brethren" in the website related link to Study 47. §17: Study Goal, What You Will Learn bullets 1, 3, 5 and 7, and the website points on the hinge verse and servants and masters were rewritten as process statements. Layout: six callouts reduced to five boxed (the 1 Timothy 5:8 Key Text became a run-in), teaching sections renumbered 1–12, twelve KJV tables, unified imprint, 16 pages (from 15; site.js 48:16 and the page text updated; "14 Core Teaching Sections" corrected to 12). Preview images re-rendered for pages 2, 3 and 5. Cover unchanged from the website (BODY OF CHRIST), upscaled from 1024×1536 for the interior.
 - v1.80 (2026-10-01): Study 49 (The Resurrections of Scripture) read in full against the PAM and Framework from the publisher's DOCX (REVISED): one conflict, corrected under the Framework's standing "one taken, one left" ruling, which names Study 49 specifically. The Section 2 sentence "Study 29 … traces this same event in fuller detail" and the Guided Further Study line "a fuller treatment of the Body's own rapture hope" described Study 29 as tracing the Body's event of 1 Thessalonians 4; both now say Study 29 treats the "one taken, one left" passages, Israel's Tribulation separation (Prophecy Program), a different event, read for contrast. (The website's About paragraph had already been corrected.) Conforming wording applied under Rules 7–12 and noted: Rule 8 anchoring sentences for 1 Thessalonians, Philippians and Revelation at first treatment, with the Revelation 20 and Philippians 3 placements stated as "This study reads…"; Rule 12 passage-level sentence for John 5:28–29 (not in the PAM's John list), applied by the publisher's confirmation that no ruling was needed; Rule 7 remnant clarifier added in the Introduction, Section 11 and the Study Summary, where "Israel's resurrections" are set beside "the Body's"; "heavenly and imminent, without a described sign preceding it" became "heavenly and tied to glorification" (the Framework is silent on imminence, PAM Rule 1); John 5:28–29 "a single coming 'hour'" became "names both outcomes together" (the study separates them by a thousand years). The Framework's resurrection table (Israel: prophetic resurrections tied to the Kingdom; Body: heavenly resurrection tied to glorification) and the harpazō ruling for 1 Thessalonians 4:17 are followed. §17: the Study Goal, What You Will Learn bullets 1, 2, 5 and 7 and the website points A Revealed Mystery, Two Resurrections Not One, Ezekiel 37 Is National and Concurrency Is Not Transfer were rewritten as process statements with neutral headings. Layout: seven callouts reduced to five boxed (the Philippians 3 and Revelation 20 Key Texts became run-ins), teaching sections renumbered 1–12 with cross-references remapped (Sections 6 and 11 became 2 and 7), ten KJV tables, unified imprint, 16 pages (from 14; site.js 49:16 and the page text updated). Preview images re-rendered for pages 2, 3 and 7 (page 4 removed). Cover unchanged from the website (DOCTRINAL THEMES), upscaled from 1024×1536 for the interior.
+- v1.81 (2026-10-02): Study 50 (Election) read in full against the PAM and Framework from the publisher's DOCX (PRODUCTION MASTER): no ruling needed; conforming wording applied under Rule 10. Rule 7: the remnant clarifier is added after Section 3.1 and in the Key Distinctions remnant bullet; Romans passages follow "Romans-Philemon governs the Body" with Rule 12 passage anchors for Romans 8:28-30, 9:6-13, 9:14-24, 10:9-13, 11:1-7 and 2 Thessalonians 2:13-14. Galatians 2:7-9 (Framework-silent) is reported as text only; the 1 Peter 1:1-2 section now rests on the letter's own audience markers with the Rule 8 anchoring sentence (James likewise), and the overlap sentence is added. Romans 11:25 uses the standing wording; "present overlap" corrected; Studies 9, 35 and 40 are marked as pointers only; "all eight passages" corrected to twelve. Section 17: Study Goal and all six What You Will Learn points (and the website What You'll Study points, three Key Scripture cards) rewritten as process wording. Layout: sixth callout demoted to a run-in; seven KJV tables added; interior 16 pages; website 14 to 16 pages, previews now pages 2, 3 and 5 (page 4 replaced because its top carried the Introduction's conclusion). Cover unchanged (website cover, DOCTRINAL THEMES).
